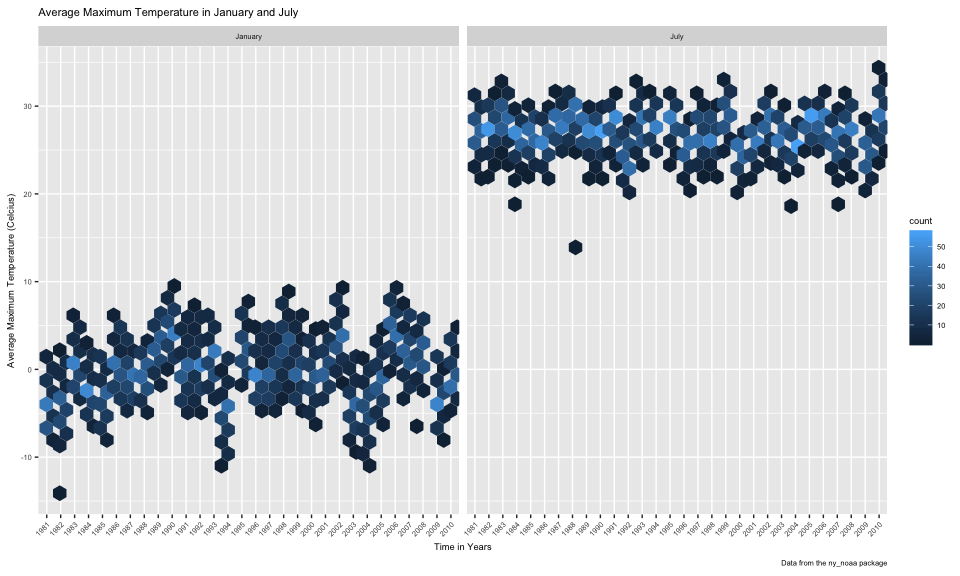
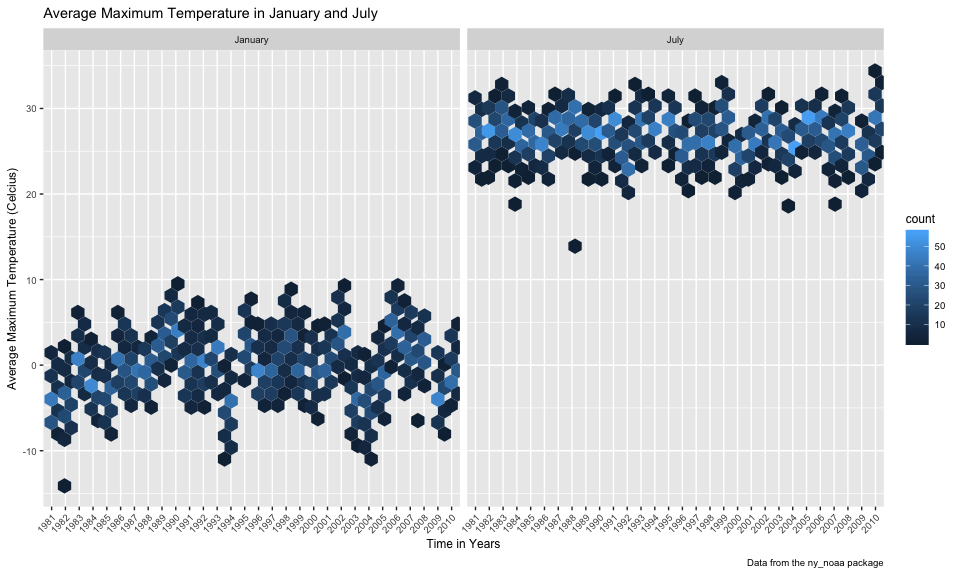
Changing some plots

diff --git a/p8105_hw3_kb2977.md b/p8105_hw3_kb2977.md
@@ -305,7 +305,7 @@ ave_temp =
   ggplot(aes(x = year, y = ave_max_temp)) +
   geom_hex() +
   facet_grid(~month) +
-  theme(axis.text.x = element_text(angle = 45, hjust = 1), text = element_text(size = 7)) +
+  theme(axis.text.x = element_text(angle = 45, hjust = 1), text = element_text(size = 9)) +
   labs(
       title = "Average Maximum Temperature in January and July",
       x = "Time in Years",
@@ -352,7 +352,7 @@ snowfall_plot =
       caption = "Data from the ny_noaa package"
   ) 
 
-temp_plot + snowfall_plot
+temp_plot / snowfall_plot
 ```
 
     ## Warning: Removed 1136276 rows containing non-finite values (stat_binhex).
